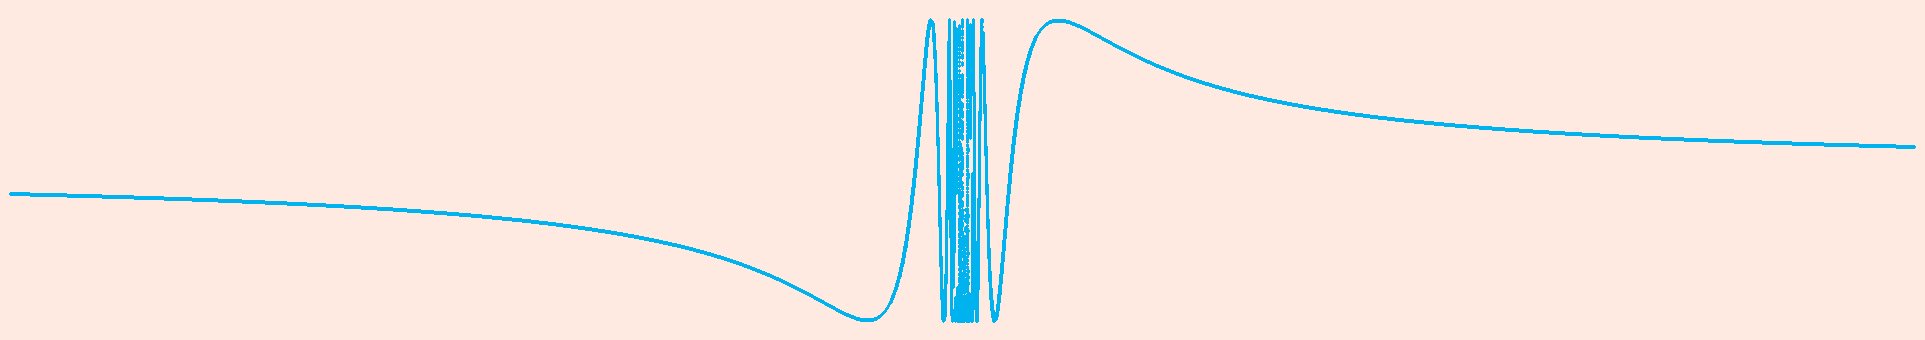
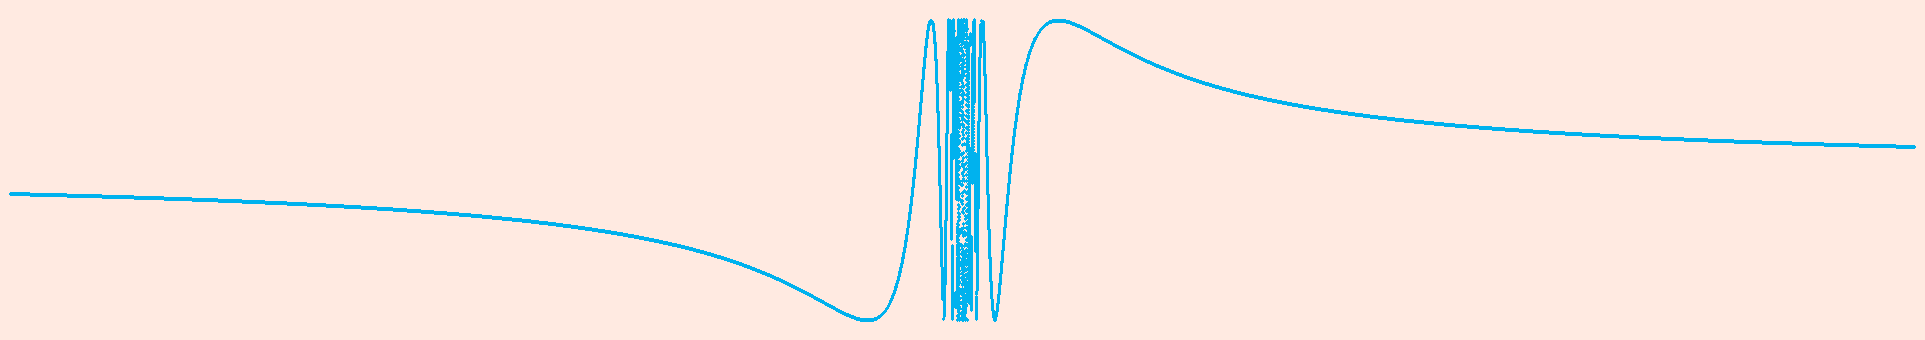
修改bug，找到正确的搜索方向，优化速度

Changed region(s): [[0.4675, 0.1176, 0.5299, 0.9412], [0.4675, 0.0588, 0.5299, 0.0882]]

diff --git a/src/cplot/cplot.c b/src/cplot/cplot.c
@@ -17,12 +17,13 @@
 bool plot_y_axis = false, plot_x_axis = false;
 number_t y_scale_len = 0, x_scale_len = 0;
 unsigned int y_scale_color = 0, x_scale_color = 0;
-
+number_t y_interval = 1, x_interval = 1;
 #define SET_AXIS_IMPL(axis) SET_AXIS(axis) { \
     plot_##axis##_axis = enable; \
     axis##_scale_len = len; \
     axis##_scale_color = color; \
-    logger(DEBUG_LOG, "set_" #axis "_axis: enable=%s, len=%Lf", (enable ? "true" : "false"), len); \
+    axis##_interval = interval; \
+    logger(DEBUG_LOG, "set_" #axis "_axis: enable=%s, len=%Lf, interval = %Lf", (enable ? "true" : "false"), len, interval); \
 }
 SET_AXIS_IMPL(x);
 SET_AXIS_IMPL(y);
@@ -546,8 +547,6 @@ void static draw(unsigned char* rgba, int i, int j, int w, int h, int radius, un
 void plot_buffer(char** argv, unsigned char *rgba, int h, int w, number_t dx, number_t dy, unsigned int color) {
     //    int expr_cnt = 0;
     //    for(char **expr = argv; *expr; expr++) expr_cnt++;
-    //    int h = ceill(sy);
-    //    int w = ceill(sx);
     //    number_t *z_cache = malloc(
     //            sizeof(number_t) * (w + LEFT_PADDING + RIGHT_PADDING + 2) * //上下左右多算一行/列
     //            (h + TOP_PADDING + END_PADDING + 2) * expr_cnt), *z_cache_ptr;
@@ -568,8 +567,7 @@ void plot_buffer(char** argv, unsigned char *rgba, int h, int w, number_t dx, nu
             logger(DEBUG_LOG, "x = %lld, y = %lld", j, i);
             bool ok = false;
             number_t z0, zx, zy;
-            number_t dzx = 0;
-            number_t dzy = 0;
+            number_t dzx = 0, dzy = 0;
             //            number_t *zptr = z_cache_ptr;
             //            z_cache_ptr += expr_cnt;
             for (char** expr = argv; *expr; expr++) {
@@ -579,45 +577,39 @@ void plot_buffer(char** argv, unsigned char *rgba, int h, int w, number_t dx, nu
                         dx * (j - LEFT_PADDING) + x1, *expr, &z0);
                     int off[] = { 1, -1, -1, 1, 1 };
                     accu = 0;
-                    for (int offi = 0; offi <= 1; offi++) {
+                    for (int offi = 0; offi < 2; offi++) {
                         //                    zx = *(zptr + off[offi]*expr_cnt);
                         eval(-dy * (i - TOP_PADDING) + _y2,
-                            dx * (j - LEFT_PADDING + off[offi]) + x1, *expr, &zx);
-                        dzx = (zx - z0) / dx;
+                            dx * (j - LEFT_PADDING - off[offi]) + x1, *expr, &zx);
+                        
                         accu = max(accu, fabsl(z0 - zx));
-                        //                    if((z0 > 0 && dzx < 0) || (z0 < 0 && dzx > 0)) break;
+                        if((z0 > 0 && (zx - z0) < 0) || (z0 < 0 && (zx - z0) > 0)) dzx = off[offi]*(zx - z0) / dx;;
                     }
-
-                    for (int offi = 0; offi <= 1; offi++) {
-                        //                    zy = *(zptr + off[offi]*expr_cnt*(w + LEFT_PADDING + RIGHT_PADDING + 2));
-                        eval(-dy * (i - TOP_PADDING + off[offi]) + _y2,
-                            dx * (j - LEFT_PADDING) + x1, *expr, &zy);
-                        dzy = (zy - z0) / dy;
+                    for (int offi = 0; offi < 2; offi++) {
+                        //                    zx = *(zptr + off[offi]*expr_cnt);
+                        eval(-dy * (i - TOP_PADDING - off[offi]) + _y2,
+                            dx * (j - LEFT_PADDING ) + x1, *expr, &zy);
+                        
                         accu = max(accu, fabsl(z0 - zy));
-                        //                    if((z0 > 0 && dzy < 0) || (z0 < 0 && dzy > 0)) break;
+                        if((z0 > 0 && (zy - z0) < 0) || (z0 < 0 && (zy - z0) > 0)) dzy = off[offi]*(zy - z0) / dy;;
                     }
                     accu = min(accu, max(dx, dy));
                 }
                 ok = eval(-dy * (i - TOP_PADDING) + _y2,
-                    dx * (j - LEFT_PADDING) + x1, *expr, NULL);
+                    dx * (j - LEFT_PADDING) + x1, *expr, &z0);
                 if (ok) goto draw;
                 if (!fast_mode) {
-                    if (z0 > 10 * max(dx, dy)) continue;
-                    logger(DEBUG_LOG, "dzx = %Le", dzx);
-                    logger(DEBUG_LOG, "dzy = %Le", dzy);
-                    number_t maxd = min(100, floorl(max(fabsl(dzx), fabsl(dzy))));
-                    for (int divx = 1; divx < maxd; divx++) {
-                        ok = eval(-dy * (i - TOP_PADDING + divx / max(fabsl(dzx), fabsl(dzy))) + _y2,
-                            dx * (j - LEFT_PADDING + divx / max(fabsl(dzx), fabsl(dzy))) + x1, *expr, NULL);
-                        if (ok) goto draw;
-                        ok = eval(-dy * (i - TOP_PADDING - divx / max(fabsl(dzx), fabsl(dzy))) + _y2,
-                            dx * (j - LEFT_PADDING - divx / max(fabsl(dzx), fabsl(dzy))) + x1, *expr, NULL);
-                        if (ok) goto draw;
-                        ok = eval(-dy * (i - TOP_PADDING - divx / max(fabsl(dzx), fabsl(dzy))) + _y2,
-                            dx * (j - LEFT_PADDING + divx / max(fabsl(dzx), fabsl(dzy))) + x1, *expr, NULL);
-                        if (ok) goto draw;
-                        ok = eval(-dy * (i - TOP_PADDING + divx / max(fabsl(dzx), fabsl(dzy))) + _y2,
-                            dx * (j - LEFT_PADDING - divx / max(fabsl(dzx), fabsl(dzy))) + x1, *expr, NULL);
+                    // if (fabsl(z0) > max(dx, dy)) continue;
+                    logger(DEBUG_LOG, "dzx = %Le, dzy = %Le", dzx, dzy);
+                    number_t maxd = max(fabsl(dzx), fabsl(dzy));
+                    if(dzx == 0 || dzy == 0) continue;
+                    dzx = dzx > 0 ? maxd : -maxd;
+                    dzy = dzy > 0 ? maxd : -maxd;
+                    // int maxd_try_time = powl(10, 2*atanl(maxd/tan(7/16.0*M_PI))/M_PI_2)-1;
+                    int maxd_try_time = min(100, maxd); // todo: find a function max(y)=+inf, and efficient
+                    for (int divx = 1; divx < maxd_try_time; divx++) {
+                        ok = eval(-dy * (i - TOP_PADDING + divx / dzy) + _y2,
+                            dx * (j - LEFT_PADDING + divx / dzx) + x1, *expr, NULL);
                         if (ok) goto draw;
                     }
                 }
@@ -668,14 +660,14 @@ void plot_png(char** argv) {
     if(plot_x_axis) {
         char x_axis[] = "y=0";
         char *x_scale = NULL;
-        alloc_sprintf(&x_scale, "x=CEIL(X),y>0,y<%Lf", x_scale_len);
+        alloc_sprintf(&x_scale, "x=CEIL(X/%Lf)*%Lf,y>0,y<%Lf", x_interval, x_interval, x_scale_len);
         char *x_axis_args[] = {x_axis, x_scale, NULL};
         plot_buffer(x_axis_args, rgba, h, w, dx, dy, x_scale_color);
     }
     if(plot_y_axis) {
         char x_axis[] = "x=0";
         char *x_scale = NULL;
-        alloc_sprintf(&x_scale, "y=CEIL(Y),x>0,x<%Lf", y_scale_len);
+        alloc_sprintf(&x_scale, "y=CEIL(Y/%Lf)*%Lf,x>0,x<%Lf", y_interval, y_interval, y_scale_len);
         char *x_axis_args[] = {x_axis, x_scale, NULL};
         plot_buffer(x_axis_args, rgba, h, w, dx, dy, y_scale_color);
     }

diff --git a/test_slop.c b/test_slop.c
@@ -1,30 +1,19 @@
+#define _XOPEN_SOURCE 500
+#include <math.h>
 #include <stdio.h>
 #include <cplot.h>
 // #include <setters.h>
-#define PI 3.1415926
 
-void init_cplot() {
+void init_cplot(int i) {
     // use init_* api
-    init__y1(-1);
-    init__y2(1);
-    init_x1(-PI);
-    init_x2(PI);
-    init_deltaX(2*PI);
-    init_deltaY(2);
+    init__y1(i);
+    init__y2(1+i);
+    init_x1(0);
+    init_x2(M_PI_2);
+    init_deltaX(M_PI_2);
+    init_deltaY(1);
     init_sy(300);
     init_sx(300);
-}
-
-void init_cplot_by_args() {
-    // use command line args
-    char y1[] = "-1";
-    char y2[] = "1";
-    char x1[] = "-pi";
-    char x2[] = "pi";
-    char sx[] = "300";
-    char sy[] = "300";
-    char *args[] = {y1, y2, sy, x1, x2, sx, NULL};
-    init(args);
 }
 
 void set_cplot_attrs(FILE *output) {
@@ -38,21 +27,23 @@ void set_cplot_attrs(FILE *output) {
     //set_LEFT_MARGIN(10); set_RIGHT_MARGIN(10); set_TOP_MARGIN(10); set_END_MARGIN(10);
     set_padding(10); // equivalent to 
     //set_LEFT_PADDING(10); set_RIGHT_PADDING(10); set_TOP_PADDING(10); set_END_PADDING(10);
-    set_output_file(output);
     // set_logger_log_level(INFO_LOG);
     set_x_axis(true, 0.1, 0xffffffff, 0.5); // enable x-axis, len of scale is 0.1, color is 0xffffffff, interval of scale is 0.5
     set_y_axis(true, 0.1, 0xffffffff, 1); // enable y-axis, len of scale is 0.1, color is 0xffffffff, interval of scale is 1
 }
 
 int main(int argc, char** argv) {
-    FILE *output = fopen("api.png", "wb");
-    init_cplot();
     // init_cplot_by_args(); // or use command line args
-    set_cplot_attrs(output);
-    char expr0[] = "y=SIN(x)";
-    char expr1[] = "y=COS(x)";
-    char* plot_args[] = { expr0, expr1, NULL};
-    plot_png(plot_args);
-    fclose(output);
+    char fname[1280] = {0};
+    for(int i = 0; i < 100; i++) {
+        int n = snprintf(fname, 1280, "slop_%d.png", i);
+        FILE *output = fopen(fname, "wb");
+        set_output_file(output);
+        init_cplot(i);
+        char expr0[] = "y=TAN(x)";
+        char* plot_args[] = { expr0, NULL};
+        plot_png(plot_args);
+        fclose(output);
+    }
     return 0;
 }

diff --git a/src/config.h b/src/config.h
@@ -54,10 +54,12 @@
 // #define ENABLE_Y_AXIS
 #define Y_SCALE_LENGTH 0.1
 #define Y_SCALE_COLOR 0x000000ff
+#define Y_SCALE_INTERVAL 1
 
 // #define ENABLE_X_AXIS
 #define X_SCALE_LENGTH 0.1
 #define X_SCALE_COLOR 0x000000ff
+#define X_SCALE_INTERVAL 0.5
 
 // *****output file*****
 // #define OUTPUT_FILE "./out.png"
@@ -193,11 +195,11 @@ ERR_LOG
 #error "#define EXEC_EXAMPLES please"
 #endif
 
-#if defined(Y_SCALE_COLOR) + defined(Y_SCALE_LENGTH) != 2 && defined(ENABLE_Y_AXIS)
+#if defined(Y_SCALE_COLOR) + defined(Y_SCALE_LENGTH) + defined(Y_SCALE_INTERVAL) != 3 && defined(ENABLE_Y_AXIS)
 error "you should define Y_SCALE_COLOR and Y_SCALE_LENGTH if you ENABLE_Y_AXIS"
 #endif
 
-#if defined(X_SCALE_COLOR) + defined(X_SCALE_LENGTH) != 2 && defined(ENABLE_X_AXIS)
+#if defined(X_SCALE_COLOR) + defined(X_SCALE_LENGTH) + defined(X_SCALE_INTERVAL) != 3 && defined(ENABLE_X_AXIS)
 error "you should define X_SCALE_COLOR and X_SCALE_LENGTH if you ENABLE_X_AXIS"
 #endif
 #endif

diff --git a/src/cplotter/cplotter.c b/src/cplotter/cplotter.c
@@ -203,10 +203,10 @@ int main(int argc, char** argv) {
     set_END_PADDING(END_PADDING);
     set_logger_log_level(LOG_LEVEL);
     #ifdef ENABLE_X_AXIS
-    set_x_axis(true, X_SCALE_LENGTH, X_SCALE_COLOR);
+    set_x_axis(true, X_SCALE_LENGTH, X_SCALE_COLOR, X_SCALE_INTERVAL);
     #endif
     #ifdef ENABLE_Y_AXIS
-    set_y_axis(true, Y_SCALE_LENGTH, Y_SCALE_COLOR);
+    set_y_axis(true, Y_SCALE_LENGTH, Y_SCALE_COLOR, Y_SCALE_INTERVAL);
     #endif
     #ifdef FAST_MODE
     enable_fastmode(true);

diff --git a/src/cplot/include/setters.h b/src/cplot/include/setters.h
@@ -4,7 +4,7 @@
 error "user should not include this hearder."
 #endif
 #ifndef SET_AXIS
-#define SET_AXIS(axis) void set_##axis##_axis(bool enable, number_t len, unsigned int color)
+#define SET_AXIS(axis) void set_##axis##_axis(bool enable, number_t len, unsigned int color, number_t interval)
 #endif
 #ifndef SET
 #define SET(x, type) void set_##x(type n)

diff --git a/README.md b/README.md
@@ -91,6 +91,7 @@ all configuration defined in [config.h](./src/config.h)
 ```c
 #include <stdio.h>
 #include <cplot.h>
+// #include <setters.h>
 #define PI 3.1415926
 
 void init_cplot() {
@@ -130,8 +131,8 @@ void set_cplot_attrs(FILE *output) {
     //set_LEFT_PADDING(10); set_RIGHT_PADDING(10); set_TOP_PADDING(10); set_END_PADDING(10);
     set_output_file(output);
     // set_logger_log_level(INFO_LOG);
-    // set_x_axis(true, 0.1, 0xffffffff); // enable x-axis, len of scale is 0.1, color is 0xffffffff
-    // set_y_axis(true, 0.1, 0xffffffff); // enable y-axis, len of scale is 0.1, color is 0xffffffff
+    // set_x_axis(true, 0.1, 0xffffffff, 0.5); // enable x-axis, len of scale is 0.1, color is 0xffffffff, interval of scale is 0.5
+    // set_y_axis(true, 0.1, 0xffffffff, 1); // enable y-axis, len of scale is 0.1, color is 0xffffffff, interval of scale is 1
 }
 
 int main(int argc, char** argv) {
